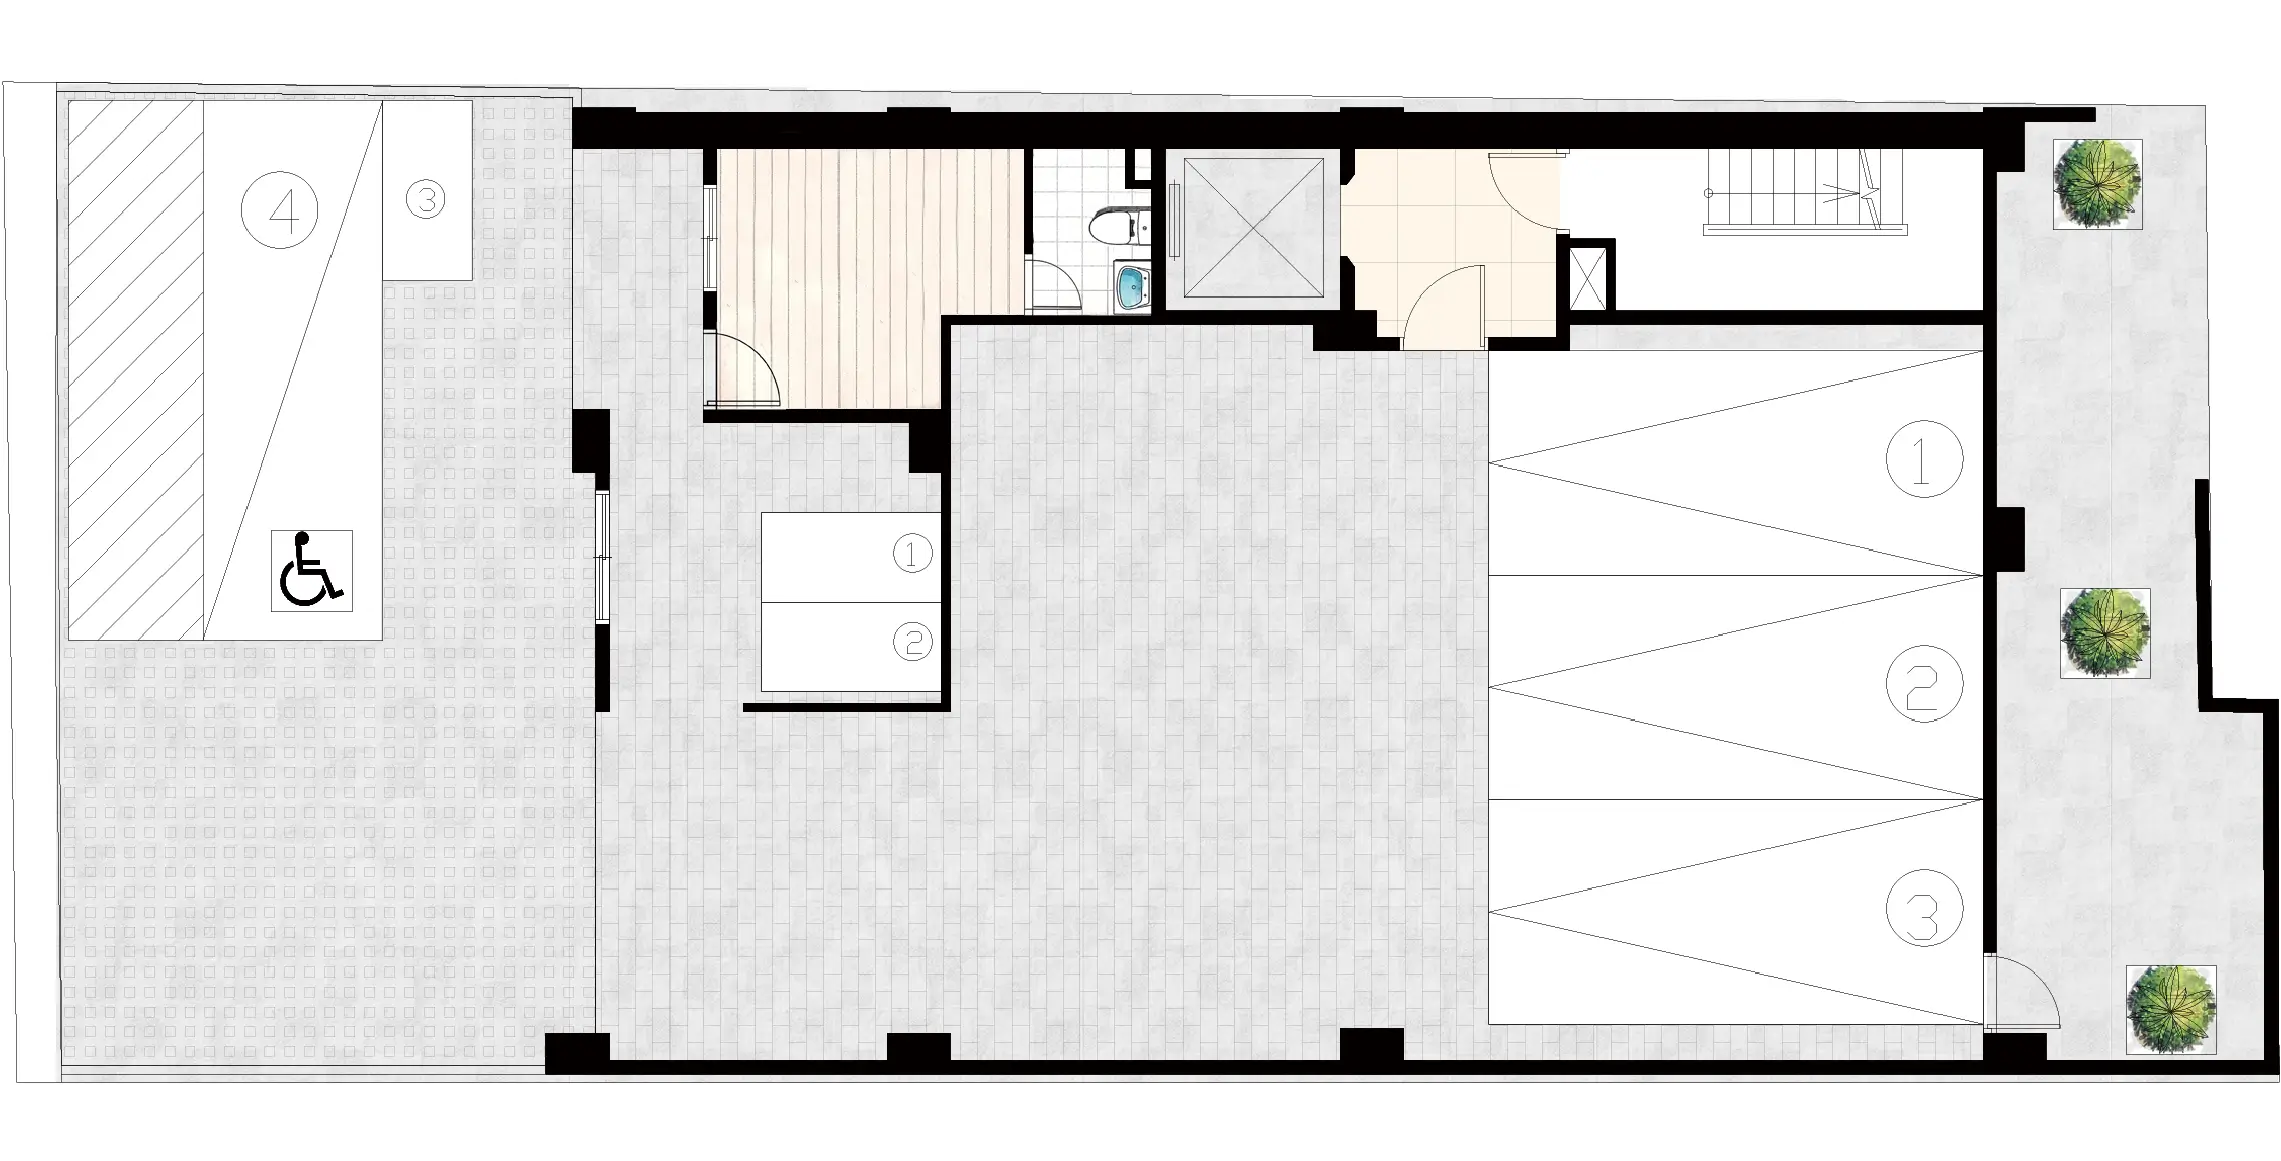
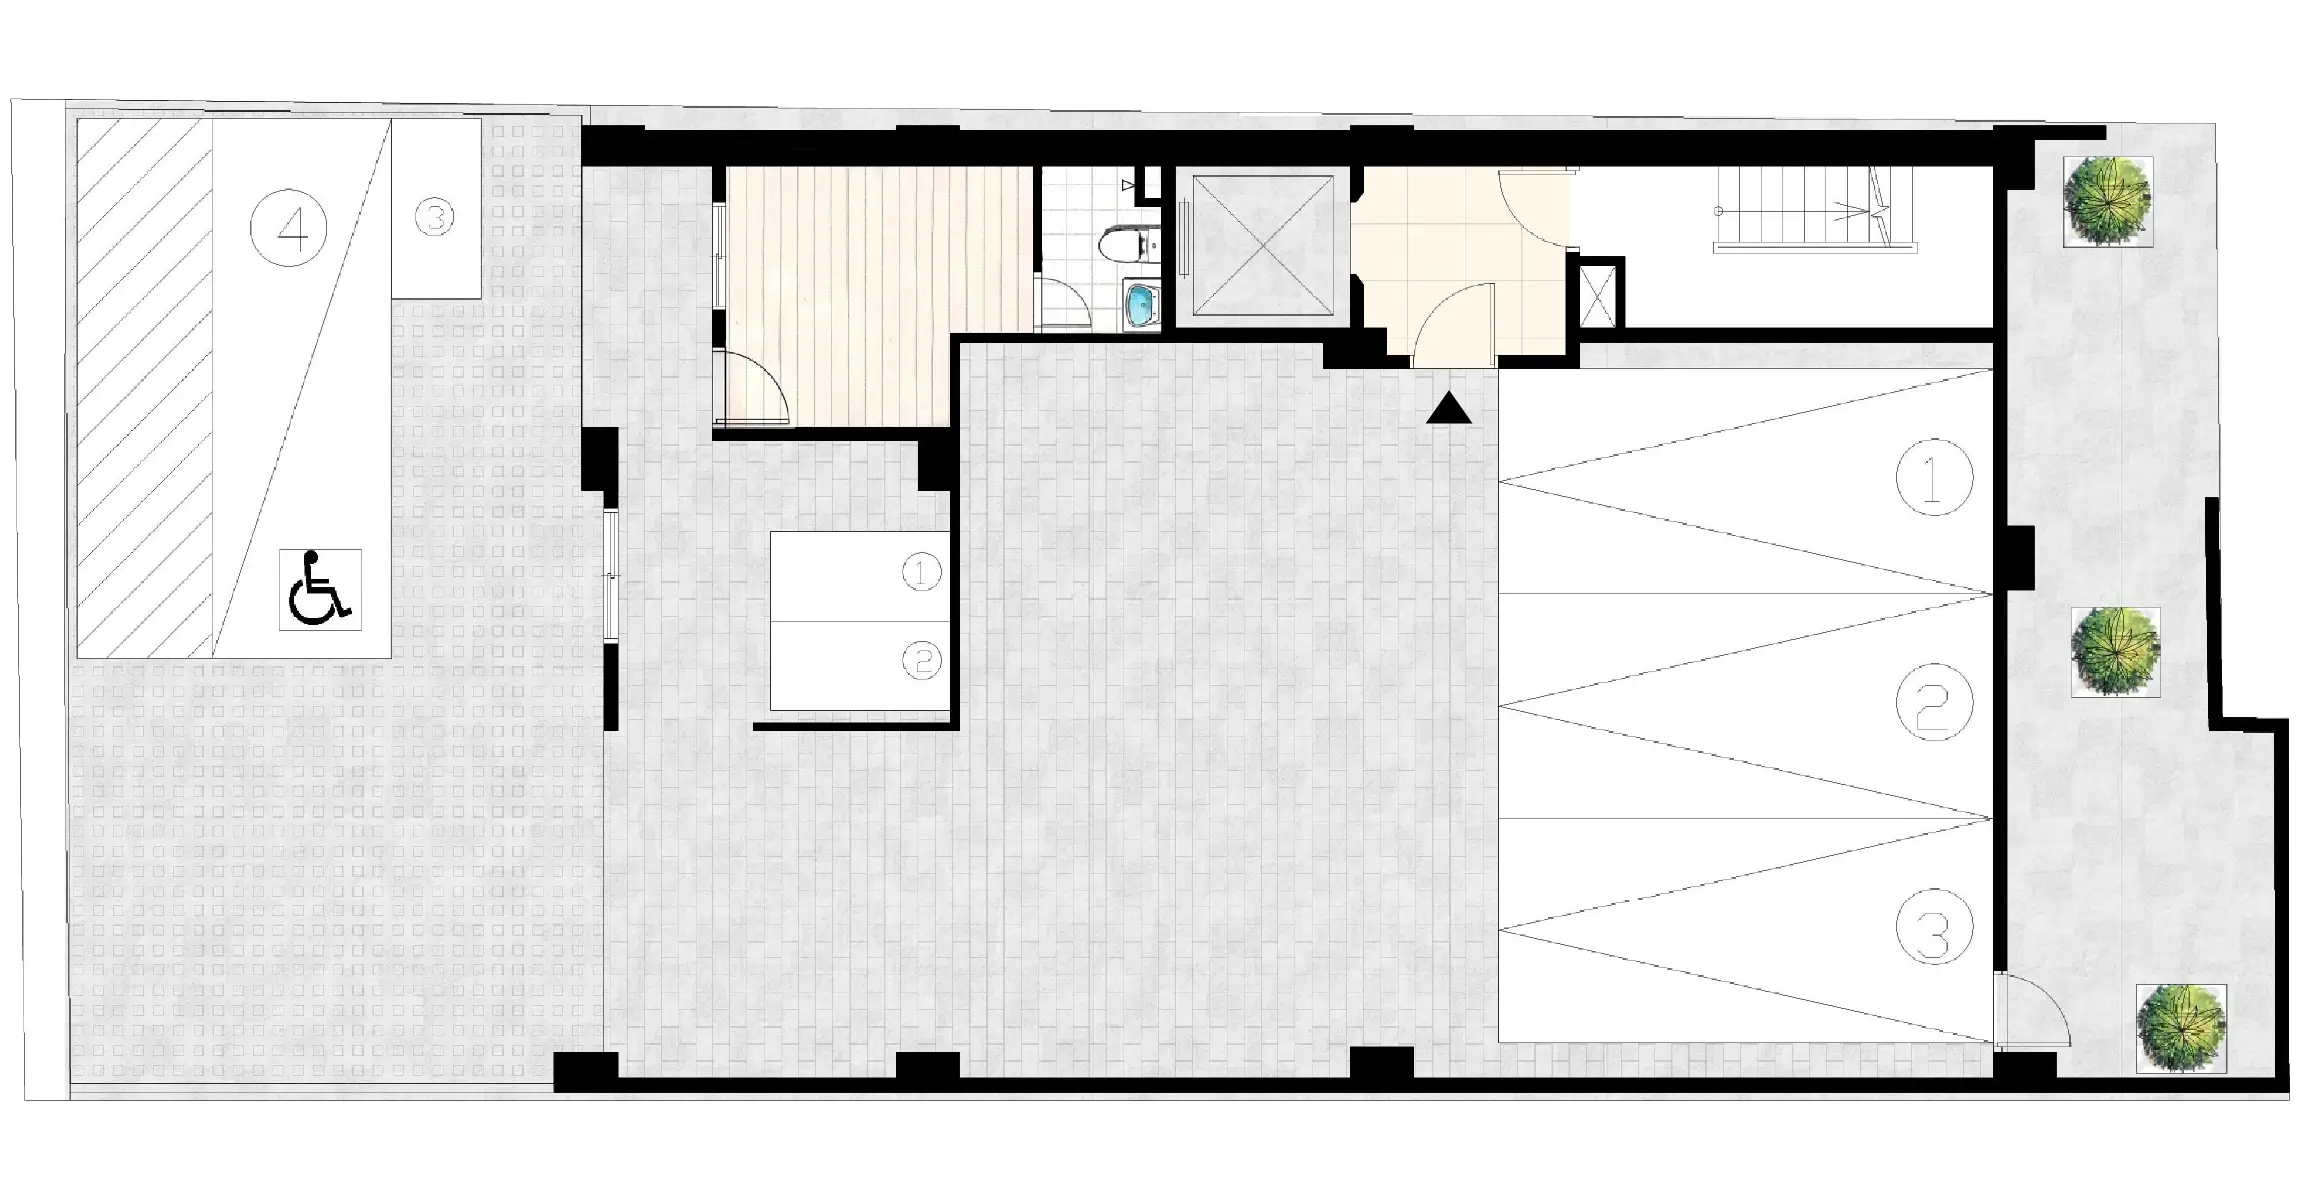
改字、圖

diff --git a/index.html b/index.html
@@ -92,7 +92,7 @@
                     <div class="text-layout_title">
                         <h2 class="title-1row">生活機能</h2>
                     </div>
-                    <p class="text-layout_content">緊鄰中壢運動園區，綠意環抱，繁華與自然交織。便捷交通串聯，食衣住行一應俱全，滿足日常所需。幸福森活零距離享受，讓生活多一分從容與美好。</p>
+                    <p class="text-layout_content">緊鄰龍岡森林公園，綠意環抱，繁華與自然交織。便捷交通串聯，食衣住行一應俱全，滿足日常所需。幸福森活零距離享受，讓生活多一分從容與美好。</p>
                 </div>
                 <div class="lifestyle_pic">
                     <img class="w-100" src="./public/img/lifestyle_pic.webp" alt="">
@@ -240,7 +240,7 @@
                         <span class="title-en">Life</span>
                     </h2>
                     <p class="text-layout_content">
-                        中壢運動園區傍身，綠意環抱，繁華與自然交織。便捷交通串聯城市脈動，食衣住行一應俱全，滿足日常所需。幸福森活零距離展開，讓生活多一分從容。
+                        馬祖新村文創園區，將歷史空間活化再利用，打造藝文與教育等文創空間。 便捷交通串聯城市脈動，食衣住行一應俱全，滿足日常所需。幸福森活零距離展開，讓生活多一分從容。
                     </p>
                     <div class="slider_btn">
                         <div class="slider_btn_item active">
@@ -421,8 +421,8 @@
                     <h2 class="title-1row">家配圖</h2>
                     <ul class="text-layout_content">
                         <li>臥室皆享大面採光</li>
-                        <li>臥室皆可配置雙人床</li>
-                        <li>衛浴皆享乾濕分離</li>
+                        <li>臥室皆可放置舒適雙人床</li>
+                        <li>衛浴皆享乾濕分離，安全性UP</li>
                     </ul>
                     <div class="map_btn d-lg-block d-flex justify-content-center">
                         <div class="map_btn_floor">

diff --git a/public/css/style.scss b/public/css/style.scss
@@ -1276,7 +1276,7 @@ main {
         &_item {
             position: relative;
             width: 100%;
-            padding-bottom: 50.88%;
+            padding-bottom: 52.17%;
             >img {
                 position: absolute;
                 width: 100%;

diff --git a/public/css/style.css b/public/css/style.css
@@ -1458,7 +1458,7 @@ main {
 .plan_swiper_item {
   position: relative;
   width: 100%;
-  padding-bottom: 50.88%;
+  padding-bottom: 52.17%;
 }
 
 .plan_swiper_item > img {
